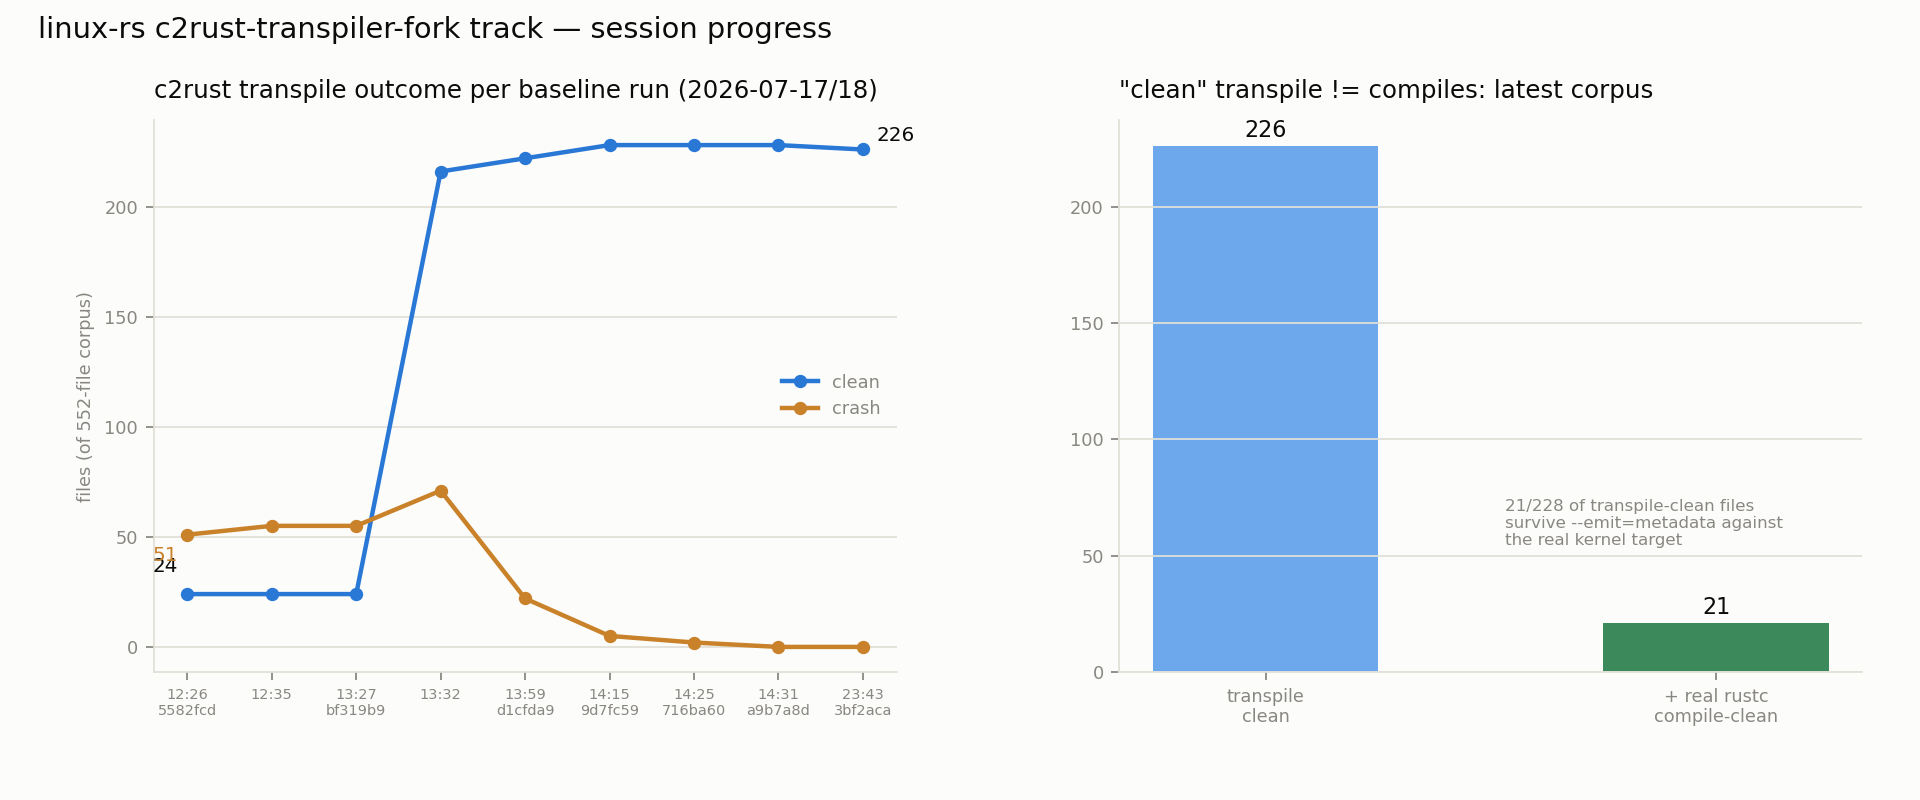
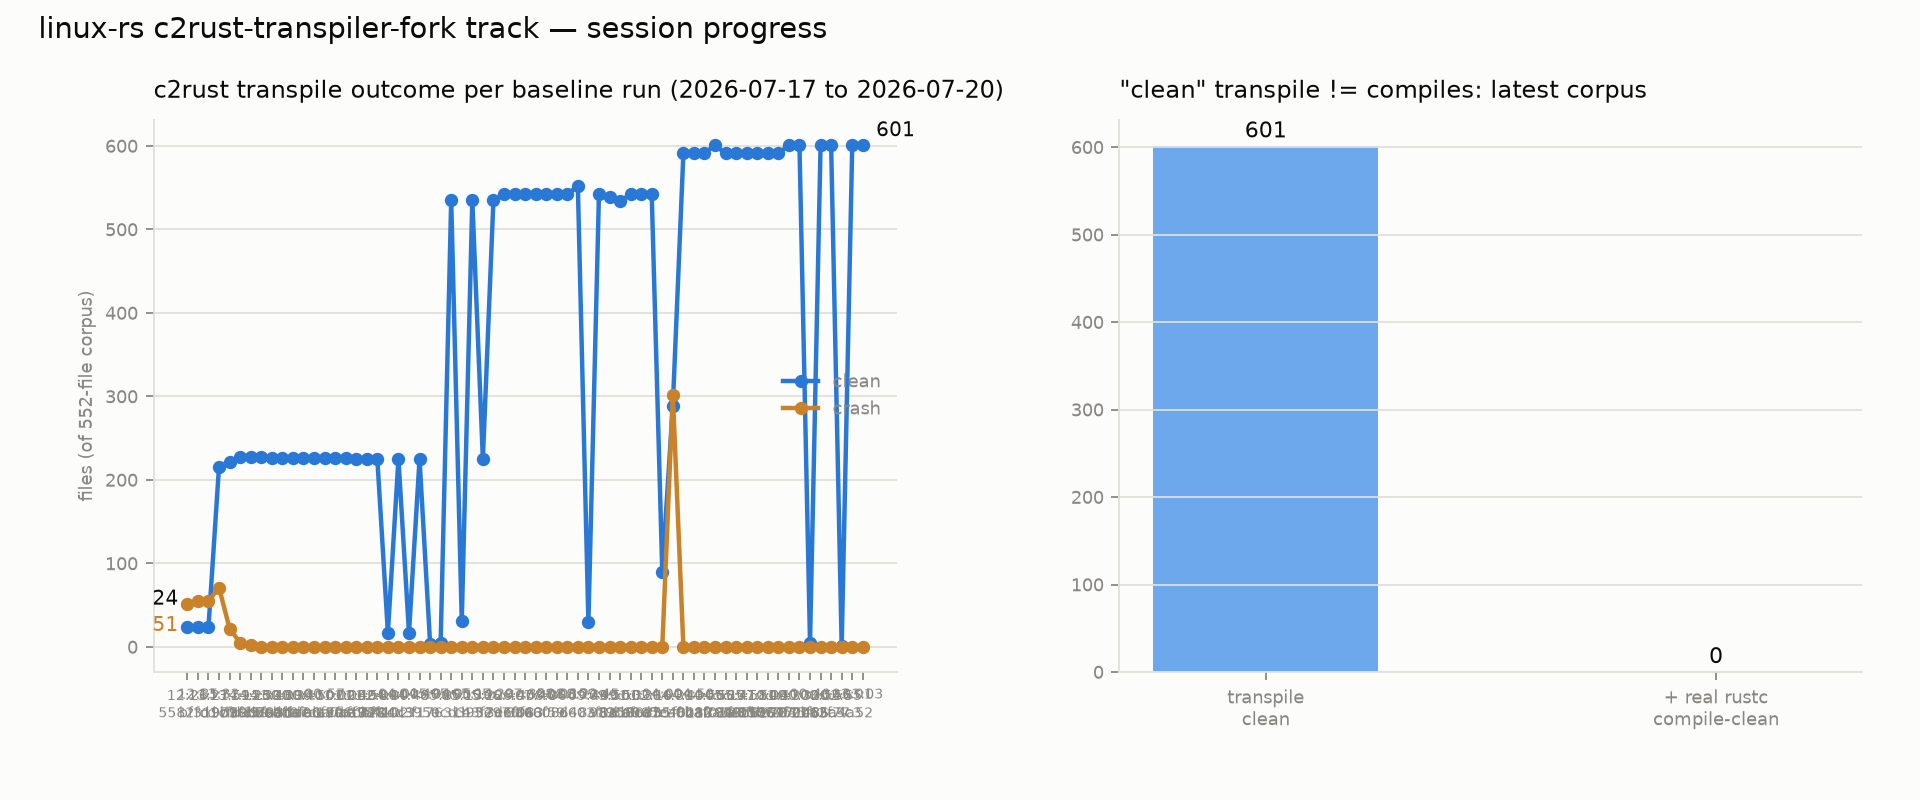
plot_session_progress.py: derive chart date range from real data, fix dict-repr parsing
Panel 1's title hardcoded "(2026-07-17/18)" instead of deriving it from
the actually-queried run_ats — every future re-run mislabeled the
chart with a stale date. Now derives the range from the real first/last
run_at timestamps.

real_compile_check_result() parsed check_c2rust_output_compiles.py's
"Results: {...}" line (a real Python dict/Counter repr, not JSON) via
naive quote-replacement, which breaks if any key/value ever contains an
apostrophe. Switched to ast.literal_eval, which parses the actual
Python literal syntax.

Verified: ast.literal_eval tested directly against an apostrophe-
containing case (naive replace would have corrupted it); date-range
logic tested for both same-day and cross-day cases; ran the full
script against the real DB (65 runs) and regenerated the PNG with the
corrected title — included here since a stale hardcoded-date chart
sitting next to the fix that removes hardcoding would be
self-contradictory.

diff --git a/scripts/plot_session_progress.py b/scripts/plot_session_progress.py
@@ -25,6 +25,7 @@ Output: docs/status/c2rust-session-progress.png,
         docs/status/c2rust-issue-impact.png (if gh is available)
 Log: tmp/plot_session_progress.log
 """
+import ast
 import json
 import logging
 import re
@@ -81,7 +82,11 @@ def real_compile_check_result():
     m = re.search(r"Results: (\{.*\})", txt)
     if not m:
         return None
-    counts = json.loads(m.group(1).replace("'", '"'))
+    # check_c2rust_output_compiles.py writes f"Results: {dict(counts)}" —
+    # a real Python dict repr, not JSON. Naive quote-replacement breaks if
+    # any key/value ever contains an apostrophe; ast.literal_eval parses
+    # the actual Python literal syntax instead of guessing at it.
+    counts = ast.literal_eval(m.group(1))
     checked_m = re.search(r"Checked: (\d+) files", txt)
     return {
         "ok": counts.get("ok", 0),
@@ -164,7 +169,11 @@ def main() -> int:
 
     # Panel 1: clean vs crash outcome over the day's runs
     ax = axs[0]
-    style_axes(ax, "c2rust transpile outcome per baseline run (2026-07-17/18)")
+    # Derived from the real queried run_ats, not hardcoded — a hardcoded
+    # date silently mislabels the chart on every future re-run.
+    first_date, last_date = run_ats[0][:10], run_ats[-1][:10]
+    date_range = first_date if first_date == last_date else f"{first_date} to {last_date}"
+    style_axes(ax, f"c2rust transpile outcome per baseline run ({date_range})")
     x = range(len(run_ats))
     ax.plot(x, clean_series, "-o", color=BLUE, linewidth=2, markersize=5, label="clean")
     ax.plot(x, crash_series, "-o", color=AMBER, linewidth=2, markersize=5, label="crash")
